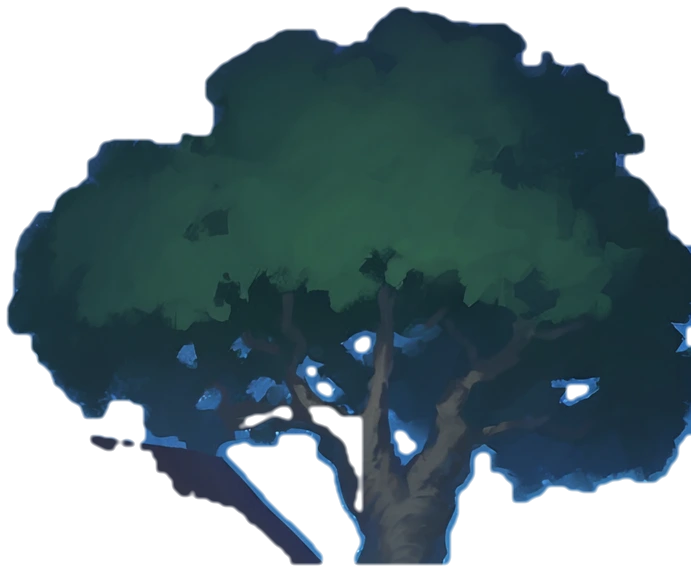
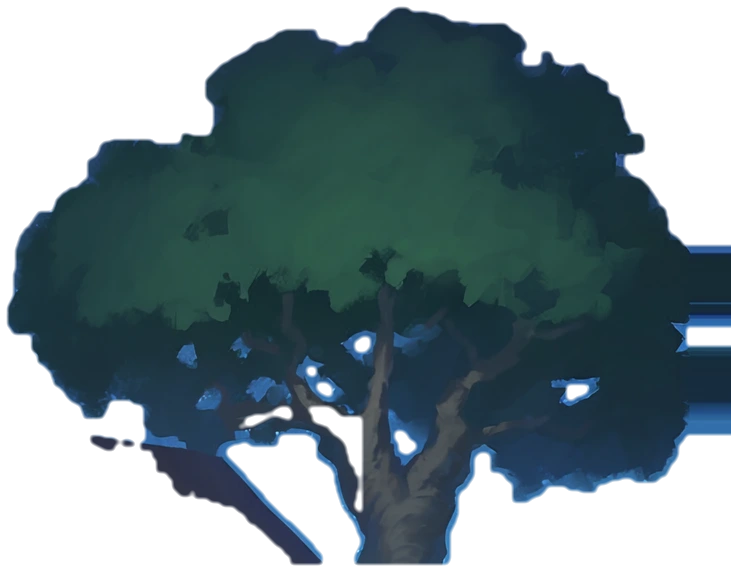
정원 나무를 잎 덩어리별로 따로 흔들어요 (0166 덧붙임)
- 잎 덩어리 여덟 개(leaves.webp)를 나무 위에 얹어 저마다 늦게, 조금 더 흔들어요
- 나무 그림을 오른쪽 화면 밖으로 늘여 왼쪽으로 밀릴 때 틈을 막아요
- backdrop.ts에 남은 날숫자를 provisional.motion.garden으로 옮기고 연기 밀림 식을 풀어 써요

Claude-Session: https://claude.ai/code/session_01AvnAsy71rgymAKGgvvUVSV

diff --git a/src/presentation/garden/backdrop.ts b/src/presentation/garden/backdrop.ts
@@ -1,5 +1,5 @@
 // 메인(정원)의 움직이는 배경 (0164 · 0165 · 0166). 그림: public/assets/stages/main, 만들기: tools/art/main-bg.py
-// 층: 하늘(느리게 좌우) → 별 반짝임 → 밤 구름 → 나무 윗부분(바람) → 땅 · 집 → 창 · 등불 빛 → 반딧불 → 굴뚝 연기.
+// 층: 하늘(느리게 좌우) → 별 반짝임 → 밤 구름 → 나무 윗부분(바람) → 잎 덩어리(따로 흔들림) → 땅 · 집 → 창 · 등불 빛 → 반딧불 → 굴뚝 연기.
 // 반딧불 · 연기 · 반짝임 · 빛은 그림에 없고 여기서 그려요. 좌표는 원본 그림(1216×768) 기준이고, 뿌리 컨테이너가 화면 너비에 맞춰 키워요.
 // 움직임 값은 모두 tokens.provisional.motion.garden. 모션 줄이기에서는 멈춘 한 장면이에요.
 import * as Phaser from "phaser";
@@ -10,7 +10,7 @@ import { reducedMotion } from "../style/motion";
 
 const G = tokens.provisional.motion.garden;
 const DIR = "assets/stages/main";
-const KEY = { sky: "garden:sky", ground: "garden:ground", tree: "garden:tree", cloud: "garden:cloud", layers: "garden:layers", dot: "garden:dot" } as const;
+const KEY = { sky: "garden:sky", ground: "garden:ground", tree: "garden:tree", cloud: "garden:cloud", leaves: "garden:leaves", layers: "garden:layers", dot: "garden:dot" } as const;
 const TAU = Math.PI * 2;
 /** 나무를 가로로 자르는 마디 수 (마디마다 옆으로 밀어요) */
 const SEGMENTS = 24;
@@ -20,7 +20,8 @@ const DOT = 32;
 interface Layers {
   source: { w: number; h: number };
   scale: number;
-  tree: { x: number; y: number; w: number; h: number; pin: number };
+  /** clumps: 잎 덩어리 (x · y · r: 그림 좌표의 가운데와 반지름, u: leaves 그림에서의 가로 자리) */
+  tree: { x: number; y: number; w: number; h: number; pin: number; clumps?: { x: number; y: number; r: number; u: number }[] };
   stars: [number, number][];
   chimney: { x: number; y: number };
   lights: { x: number; y: number; r: number }[];
@@ -29,7 +30,7 @@ interface Layers {
 }
 
 export function preloadGarden(scene: Phaser.Scene) {
-  for (const k of ["sky", "ground", "tree", "cloud"] as const) {
+  for (const k of ["sky", "ground", "tree", "cloud", "leaves"] as const) {
     if (!scene.textures.exists(KEY[k])) scene.load.image(KEY[k], `${DIR}/${k}.webp`);
   }
   if (!scene.cache.json.exists(KEY.layers)) scene.load.json(KEY.layers, `${DIR}/layers.json`);
@@ -93,6 +94,14 @@ export function createGarden(scene: Phaser.Scene): Garden | undefined {
   const points = Array.from({ length: SEGMENTS + 1 }, (_, i) => new Phaser.Math.Vector2(0, (i / SEGMENTS) * T.h * L.scale));
   const tree = scene.add.rope(T.x + T.w / 2, T.y, KEY.tree, undefined, points, false).setScale(art);
 
+  // 잎 덩어리: 나무 그림에서 둥글게 뜬 조각을 나무 위에 얹어요. 나무를 따라가면서 저마다 조금 늦게, 조금 더 흔들려요
+  const leaves = scene.textures.exists(KEY.leaves) ? scene.textures.get(KEY.leaves) : undefined;
+  const clumps = (leaves ? (T.clumps ?? []) : []).map((c, i) => {
+    const side = c.r * 2 * L.scale;
+    leaves!.add(i, 0, c.u * L.scale, 0, side, side);
+    return { ...c, i, up: Math.max(0, 1 - (c.y - T.y) / T.pin), img: scene.add.image(c.x, c.y, KEY.leaves, i).setScale(art) };
+  });
+
   const ground = scene.add.image(0, 0, KEY.ground).setOrigin(0, 0).setScale(art);
   const lights = L.lights.map((l) => glow(L.colors.light).setPosition(l.x, l.y).setDisplaySize(l.r * 2, l.r * 2));
 
@@ -106,7 +115,7 @@ export function createGarden(scene: Phaser.Scene): Garden | undefined {
       x: rnd(i) * L.source.w,
       y: lerp(L.meadow.top, L.meadow.bottom, depth),
       phase: rnd(i + 7) * TAU,
-      size: lerp(0.55, 1.45, rnd(i + 61)) * lerp(0.45, 1.35, depth),
+      size: lerp(F.sizeMin, F.sizeMax, rnd(i + 61)) * lerp(F.farScale, F.nearScale, depth),
       halo: glow(Phaser.Display.Color.GetColor(color.r, color.g, color.b)),
       core: scene.add.image(0, 0, dot).setTint(L.colors.fireflyCore).setBlendMode(Phaser.BlendModes.ADD),
     };
@@ -115,7 +124,7 @@ export function createGarden(scene: Phaser.Scene): Garden | undefined {
   const S = G.smoke;
   const puffs = Array.from({ length: S.count }, (_, i) => ({ offset: i / S.count, img: scene.add.image(0, 0, dot).setTint(L.colors.smoke) }));
 
-  root.add([sky, starBox, ...clouds, tree, ground, ...lights, ...flies.flatMap((f) => [f.halo, f.core]), ...puffs.map((p) => p.img)]);
+  root.add([sky, starBox, ...clouds, tree, ...clumps.map((c) => c.img), ground, ...lights, ...flies.flatMap((f) => [f.halo, f.core]), ...puffs.map((p) => p.img)]);
 
   const still = reducedMotion();
   const update = (time: number) => {
@@ -136,7 +145,19 @@ export function createGarden(scene: Phaser.Scene): Garden | undefined {
       p.x = windAt(t - u * G.tree.lag) * G.tree.sway * Math.pow(u, G.tree.curve) * L.scale;
     });
     tree.setDirty();
-    lights.forEach((l, i) => l.setAlpha(G.light.alpha + G.light.flicker * Math.sin(t * (2.1 + i * 0.7) + i) + G.light.jitter * Math.sin(t * 7.3 + i * 2)));
+    for (const c of clumps) {
+      const { i } = c;
+      const own = windAt(t - c.up * G.tree.lag - lerp(0.3, 1, rnd(i + 17)) * G.tree.clumpLag);
+      const flutter = Math.sin((t * TAU) / lerp(G.tree.flutterPeriod * 0.6, G.tree.flutterPeriod, rnd(i + 27)) + rnd(i + 37) * TAU) * G.tree.flutter * Math.min(1, Math.abs(own));
+      const amount = lerp(0.6, 1.4, rnd(i + 47));
+      c.img
+        .setPosition(
+          c.x + windAt(t - c.up * G.tree.lag) * G.tree.sway * Math.pow(c.up, G.tree.curve) + own * G.tree.clumpSway * amount + flutter,
+          c.y + Math.sin((t * TAU) / G.wind.slow + rnd(i + 57) * TAU) * G.tree.clumpLift * amount,
+        )
+        .setRotation(Phaser.Math.DegToRad(own * G.tree.clumpTurn * amount));
+    }
+    lights.forEach((l, i) => l.setAlpha(G.light.alpha + G.light.flicker * Math.sin(t * G.light.flickerSpeed * (1 + i / 3) + i) + G.light.jitter * Math.sin(t * G.light.jitterSpeed + i * 2)));
     for (const f of flies) {
       const { i } = f;
       const w1 = lerp(0.11, 0.33, rnd(i + 71));
@@ -153,7 +174,7 @@ export function createGarden(scene: Phaser.Scene): Garden | undefined {
         b = k < 0.6 ? Math.sin((k / 0.6) * Math.PI * 0.5) : Math.cos(((k - 0.6) / 0.4) * Math.PI * 0.5);
         b *= b;
       }
-      b *= lerp(0.45, 1, rnd(i + 31)) * (0.85 + 0.15 * Math.sin(t * 9 + i));
+      b *= lerp(F.dimmest, 1, rnd(i + 31)) * (0.85 + 0.15 * Math.sin(t * 9 + i));
       const halo = lerp(F.halo * 0.44, F.halo, rnd(i + 111)) * f.size;
       const core = (F.core * 0.7) * f.size + 0.7;
       f.halo.setPosition(x, y).setDisplaySize(halo * 2, halo * 2).setAlpha(b * 0.55);
@@ -161,10 +182,11 @@ export function createGarden(scene: Phaser.Scene): Garden | undefined {
     }
     for (const p of puffs) {
       const k = still ? p.offset : (t / S.period + p.offset) % 1;
-      const push = 0.6 + 0.4 * windAt(t - k * 2) * 0.5 + 0.4;
-      const r = lerp(5, S.size, k);
+      // 위로 갈수록 옆으로 밀리고, 바람이 불면 조금 더 밀려요
+      const push = 1 + windAt(t - k * S.lag) * S.wind;
+      const r = lerp(S.start, S.size, k);
       p.img
-        .setPosition(L.chimney.x + k * k * S.drift * push + Math.sin(k * 9 + p.offset * S.count) * 4, L.chimney.y - k * S.rise)
+        .setPosition(L.chimney.x + k * k * S.drift * push + Math.sin(k * 9 + p.offset * S.count) * S.wobble, L.chimney.y - k * S.rise)
         .setDisplaySize(r * 2, r * 2)
         .setAlpha(S.alpha * Math.sin(Math.min(1, k * 6) * Math.PI * 0.5) * (1 - k));
     }

diff --git a/src/design/tokens.ts b/src/design/tokens.ts
@@ -359,7 +359,13 @@ export const tokens = {
         "tree": {
           "sway": 5,
           "curve": 1.5,
-          "lag": 0.5
+          "lag": 0.5,
+          "clumpSway": 1.8,
+          "clumpLift": 0.6,
+          "clumpLag": 1.1,
+          "clumpTurn": 0.8,
+          "flutter": 0.5,
+          "flutterPeriod": 1.7
         },
         "star": {
           "alpha": 0.35,
@@ -370,7 +376,9 @@ export const tokens = {
         "light": {
           "alpha": 0.1,
           "flicker": 0.05,
-          "jitter": 0.03
+          "jitter": 0.03,
+          "flickerSpeed": 2.1,
+          "jitterSpeed": 7.3
         },
         "firefly": {
           "count": 22,
@@ -380,7 +388,12 @@ export const tokens = {
           "onMax": 0.65,
           "roam": 64,
           "halo": 16,
-          "core": 2.4
+          "core": 2.4,
+          "sizeMin": 0.55,
+          "sizeMax": 1.45,
+          "farScale": 0.45,
+          "nearScale": 1.35,
+          "dimmest": 0.45
         },
         "smoke": {
           "rise": 95,
@@ -388,7 +401,11 @@ export const tokens = {
           "period": 14.3,
           "count": 9,
           "alpha": 0.22,
-          "size": 25
+          "size": 25,
+          "wind": 0.2,
+          "lag": 2,
+          "start": 5,
+          "wobble": 4
         }
       },
       "spiritSwap": {

diff --git a/tools/art/main-bg.py b/tools/art/main-bg.py
@@ -7,10 +7,15 @@
 - 그림에서 반딧불과 굴뚝 연기를 지워요(화면이 다시 그림). 별은 그림에 두고 자리만 적어요.
 - 하늘: 줄마다 위쪽 하늘 색과 견줘 가르고, 나무 · 집 뒤는 왼쪽 하늘을 비춰 채워요.
 - 나무 윗부분은 고정선(pin) 위만 떼요. 땅 층은 지붕 · 줄기처럼 맞닿은 곳에서만 나무 쪽으로 겹쳐요(나무 둘레에 테가 남지 않게).
+- 잎 덩어리(leaves.webp)는 나무 그림에서 둥글게 뜬 조각이에요. 자리는 CLUMPS.
 - 2배는 색만으로 가르면 가장자리가 흔들려서 1배에서 만든 마스크를 키워 써요.
 - 자리 값(나무 상자 · 고정선 · 굴뚝 · 창)은 M5-s30801 그림에 맞춘 것이에요. 다른 그림이면 다시 재야 해요.
 """
 import cv2, numpy as np, sys, json
+# 잎 덩어리 자리 (1배 그림 좌표: 가운데 x, y, 반지름). 눈으로 잎 뭉치마다 하나씩 잡은 것
+CLUMPS=[(925,237,48),(980,172,52),(1060,137,52),(1140,167,52),(1185,247,44),(1040,212,56),(990,262,38),(1115,272,42)]
+EDGE=20  # 나무를 오른쪽 그림 밖으로 늘이는 폭 (1배 px). 바람이 가장 셀 때 밀리는 폭보다 커야 해요
+CLUMP_CORE=0.45  # 반지름의 이만큼까지는 또렷하고, 그 밖은 가장자리로 갈수록 흐려져요
 TOL=int(sys.argv[4]) if len(sys.argv)>4 else 40
 src=sys.argv[1]; out=sys.argv[2]; S=int(sys.argv[3]) if len(sys.argv)>3 else 1
 im=cv2.imread(src); H,W=im.shape[:2]
@@ -116,10 +121,24 @@ if len(sys.argv)>6:
     q=[cv2.IMWRITE_WEBP_QUALITY,92]
     cv2.imwrite(exp+'/sky.webp',skyL,q)
     cv2.imwrite(exp+'/ground.webp',rgba(clean,ground_mask),q)
-    cv2.imwrite(exp+'/tree.webp',rgba(clean,canopy_draw)[y0:pin+3*S,x0:x1],q)
+    # 나무가 그림 오른쪽 끝에 닿아 있어서, 바람에 왼쪽으로 밀릴 때 틈이 안 보이게 끝 줄을 EDGE만큼 늘여 둬요
+    wide=cv2.copyMakeBorder(rgba(clean,canopy_draw),0,0,0,EDGE*S,cv2.BORDER_REPLICATE); x1+=EDGE*S
+    cv2.imwrite(exp+'/tree.webp',wide[y0:pin+3*S,x0:x1],q)
+    # 잎 덩어리: 나무 그림에서 둥글게 떠서 가장자리를 흐리게 한 조각. 화면이 나무 위에 얹어 덩어리마다 따로 흔들어요
+    tr=wide.astype(np.float32); side=2*max(c[2] for c in CLUMPS)*S
+    strip=np.zeros((side,0,4),np.float32); clumps=[]
+    for cx,cy,cr in CLUMPS:
+        n=2*cr*S; tile=np.zeros((side,n,4),np.float32)
+        ax,ay=cx*S-cr*S,cy*S-cr*S
+        sx0,sy0,sx1,sy1=max(0,ax),max(0,ay),min(W+EDGE*S,ax+n),min(H,ay+n)
+        tile[sy0-ay:sy1-ay,sx0-ax:sx1-ax]=tr[sy0:sy1,sx0:sx1]
+        yy,xx=np.mgrid[0:side,0:n]; d=np.hypot(xx-n/2+.5,yy-n/2+.5)/(n/2)
+        f=np.clip((1-d)/(1-CLUMP_CORE),0,1); tile[...,3]*=f*f*(3-2*f)
+        clumps.append({'x':cx,'y':cy,'r':cr,'u':strip.shape[1]//S}); strip=np.hstack([strip,tile])
+    cv2.imwrite(exp+'/leaves.webp',strip.astype(np.uint8),q)
     one=json.load(open(MD+'/layers.json')) if MD else None
     json.dump({'source':{'w':W//S,'h':H//S},'scale':S,
-      'tree':{'x':x0/S,'y':y0/S,'w':(x1-x0)/S,'h':(pin+3*S-y0)/S,'pin':(pin-y0)/S},
+      'tree':{'x':x0/S,'y':y0/S,'w':(x1-x0)/S,'h':(pin+3*S-y0)/S,'pin':(pin-y0)/S,'clumps':clumps},
       'stars':(one or {'stars':stars})['stars'],
       'chimney':{'x':846,'y':314},
       'lights':[{'x':893,'y':431,'r':46},{'x':949,'y':437,'r':50},{'x':861,'y':447,'r':34}],

diff --git a/docs/design-decisions/0166-main-backdrop-motion.md b/docs/design-decisions/0166-main-backdrop-motion.md
@@ -27,5 +27,6 @@
 ## 결과와 후속 작업
 - `src/presentation/garden/backdrop.ts`, 에셋 `public/assets/stages/main/`(하늘 · 땅 · 나무 · 구름 · 자리 정보), 만들기 `tools/art/main-bg.py`. 메인 화면만 써요.
 - 그림을 못 부르면 전처럼 민무늬 바탕이에요. 모션 줄이기에서는 멈춘 한 장면이에요.
-- 아직 없는 것: 앞 풀과 등불 흔들림, 나무의 덩어리별 리깅(지금은 가로 마디를 옆으로 미는 방식)과 칸별 확대 검수, `화면 흔들림` 설정과의 연결, 출전 준비 · 깃들기에 같은 배경 깔기.
+- 나무 리깅(2026-11-23 덧붙임): 가로 마디로 미는 나무 위에 잎 덩어리 여덟 개(`leaves.webp`, 가장자리가 흐린 둥근 조각)를 얹어 저마다 조금 늦게, 조금 더 흔들어요. 나무 그림은 오른쪽 화면 밖으로 20px 늘여서 왼쪽으로 밀려도 틈이 안 보여요. 칸별 확대 검수에서 찾은 것은 이 틈 하나였어요.
+- 아직 없는 것: 앞 풀과 등불 흔들림, `화면 흔들림` 설정과의 연결, 출전 준비 · 깃들기에 같은 배경 깔기.
 - 밤 구름은 V5 투명 6장 중 쓸 만한 한 장이라 모양이 하나뿐이에요.
